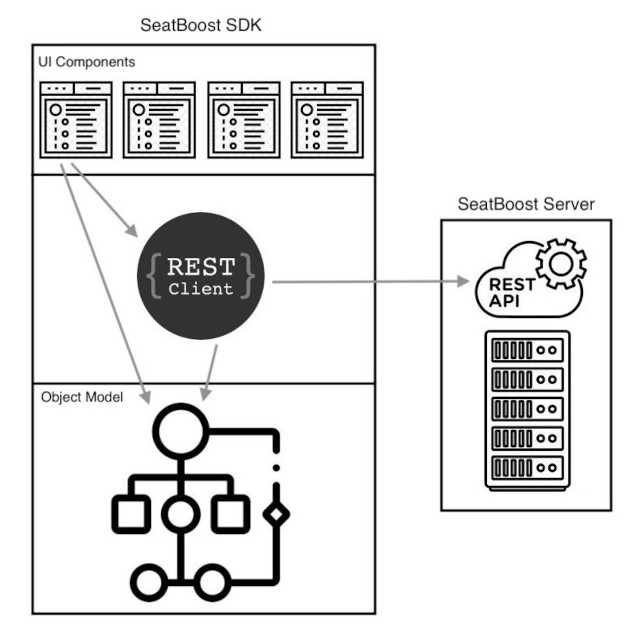
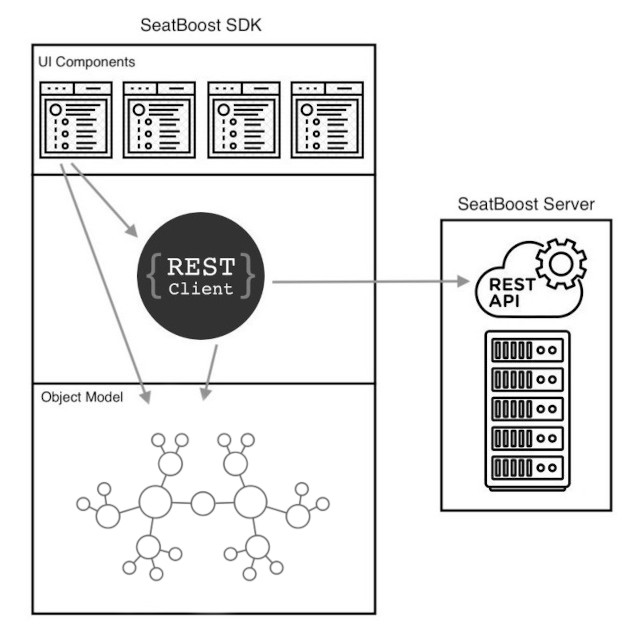
getting started

Changed region(s): [[0.125, 0.625, 0.5312, 0.9688]]

diff --git a/docs/README.md b/docs/README.md
@@ -1,7 +1,24 @@
 # Getting Started
 
-> An awesome project.
+The SeatBoost SDK has been meticulously engineered with the purpose of assisting your airline application in seamlessly integrating the functionality of flight upgrade auctions and replicating the exceptional user experience offered by the SeatBoost App.
+
+### Installing
+
+Please, contact SeatBoost support team to obtain the SDK binary version for integration into your application.
+
+### Overview
+
+The SDK is structured with three distinct layers, each serving a specific purpose and contributing to the overall functionality of the development kit. See the image below.
 
 <center>
 	<img src="images/sdk.jpg"/>
 </center>
+
+* **UI Components**: those elements are customizable screens provided by the SDK to embed the SeatBoost user experience into the airline application. Using UI components can significantly increase development speed by providing pre-built and reusable elements that developers can integrate into your application. 
+
+* **REST Client**: this module was designed to facilitate the interaction between the client application and the SeatBoost RESTful web service.
+
+* **Object Model**: those classes represent data for the SeatBoost application domain. They are used to map the structure of the data transmitted over the network (JSON) to a format that can be easily handled by the application using the SeatBoost SDK
+
+If you prefer a more tailored approach, you have the flexibility to design and build custom screens entirely from the ground up. This involves bypassing the predefined UI components and opting to create interfaces that align precisely with your unique design requirements. Additionally, you can leverage the REST client functionality to establish direct communication with the server, granting you full control over data retrieval and exchange.
+
